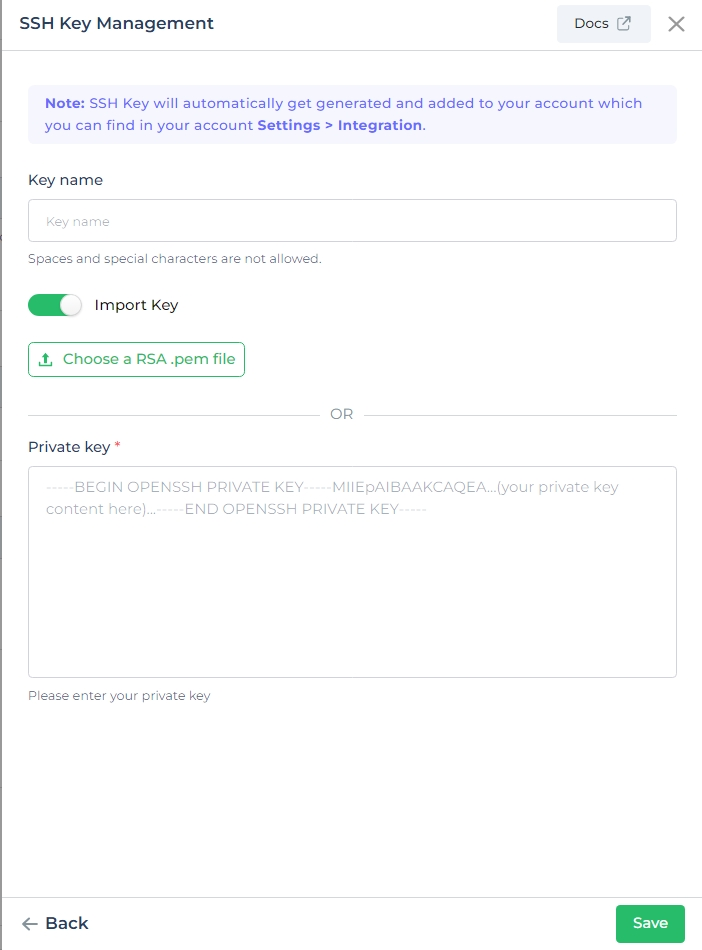
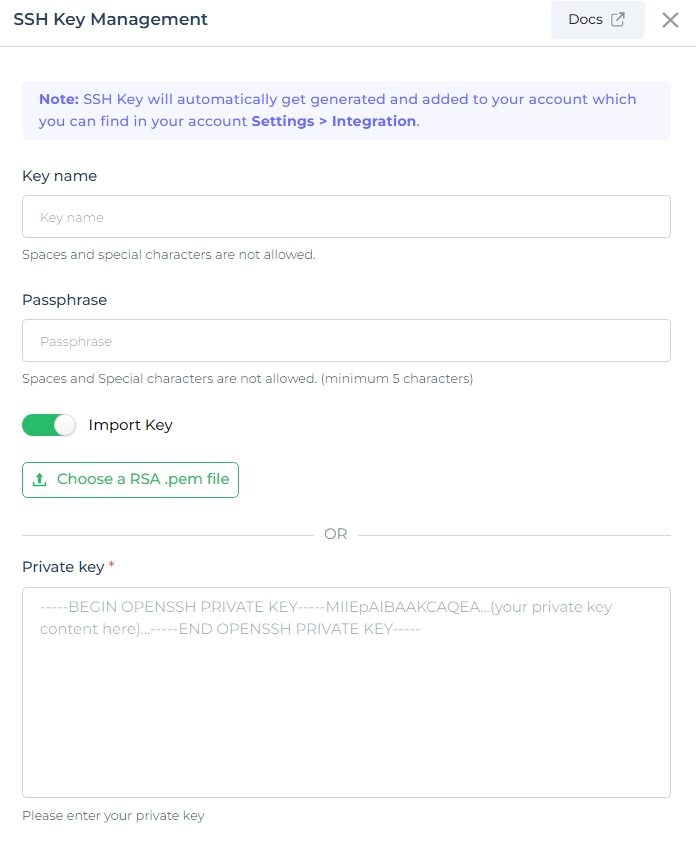
ssh key doc update

diff --git a/docs/connecting-via-ssh-keys.md b/docs/connecting-via-ssh-keys.md
@@ -25,7 +25,7 @@ To generate an SSH key in the cloud version, follow these steps:
 
 :::tip
 
-You also have the option to add an existing SSH key from your system. Simply toggle the Import Key option and choose a `.pem` file from the system.
+You also have the option to add an existing SSH key from your system. Simply toggle the Import Key option and choose a `.pem` file from the system with addition to passphrase implication.
 
 <figure>
   <Thumbnail src="/img/advanced-concepts/connecting-via-ssh-keys/import-key.png" alt="Import SSH Key" />
